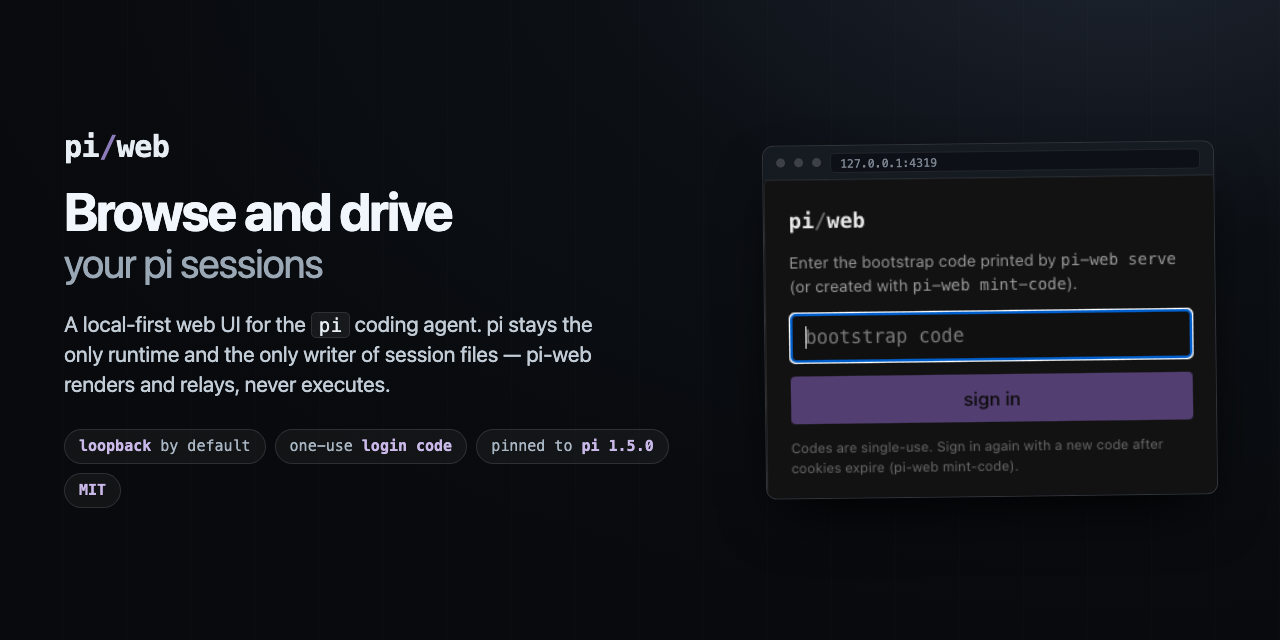
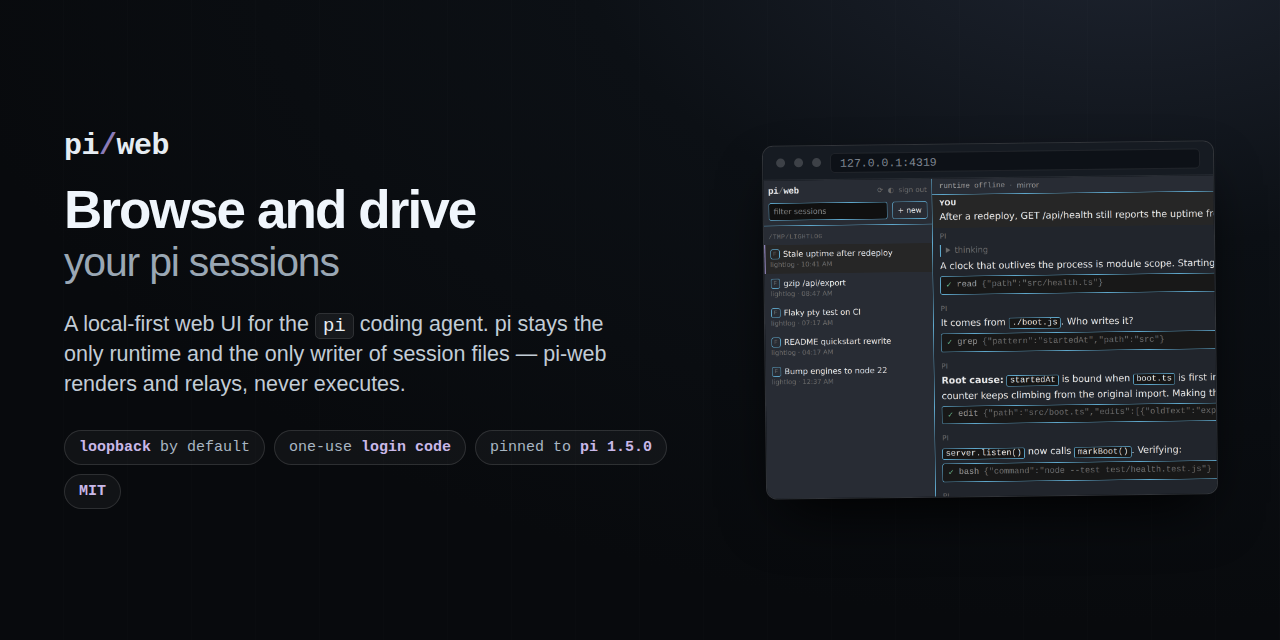
docs: drop the remaining login-page images from docs/assets
The README hero was swapped, but the login card was still shipped twice in
`docs/assets/`: `screenshot-login.png`, and the social preview, whose mock
browser window rendered the same bootstrap-code screen.

- delete `docs/assets/screenshot-login.png`
- re-render `docs/assets/social-preview.png` (1280x640) around
  `screenshot-main.png` instead of the login card, zoomed on the session list
  and the first tool calls so it stays legible at OG size
- `social-preview.html` now reads `screenshot-main.png` and no longer depends
  on an untracked `login-raw.png`, so it can actually be re-rendered
- audit doc and changelog corrected to match

GitHub's social preview image is a repo setting, so the new PNG has to be
re-uploaded there; nothing in the repo can do that.

diff --git a/docs/assets/social-preview.html b/docs/assets/social-preview.html
@@ -27,7 +27,7 @@ h1 span{display:block;font-weight:400;color:#9aa7b4;font-size:41px;letter-spacin
 .url{flex:1;height:20px;border-radius:5px;background:#0d1117;border:1px solid #ffffff14;
   font:400 11.5px/20px ui-monospace,Menlo,monospace;color:#7d8590;padding:0 9px}
 .shot{position:relative;overflow:hidden;width:450px;height:318px}
-.shot img{position:absolute;width:1608px;height:904px;left:-578px;top:-291px;display:block}
+.shot img{display:block;position:absolute;top:0;left:0;width:1000px;height:625px;object-fit:cover}
 .cap{margin-top:13px;text-align:right;font:400 13.5px/1.3 ui-monospace,Menlo,monospace;color:#6f7d8b}
 .foot{position:absolute;left:64px;bottom:26px;z-index:2;font:400 14px/1 ui-monospace,Menlo,monospace;color:#5f6c79}
 </style></head><body><div id="card">
@@ -47,7 +47,7 @@ h1 span{display:block;font-weight:400;color:#9aa7b4;font-size:41px;letter-spacin
     <div class="win">
       <div class="bar"><span class="dot"></span><span class="dot"></span><span class="dot"></span>
         <span class="url">127.0.0.1:4319</span></div>
-      <div class="shot"><img src="login-raw.png" alt="pi-web login screen"></div>
+      <div class="shot"><img src="screenshot-main.png" alt="pi-web session transcript: sidebar of sessions, then tool calls and the fix"></div>
     </div>
   </div>
-</div><div id="crop" style="position:absolute;top:700px;left:0"><div class="shot" style="width:900px;height:640px"><img src="login-raw.png" alt="" style="width:3170px;height:1780px;left:-1140px;top:-572px"></div></div></body></html>
+</div></body></html>

diff --git a/OPEN_SOURCE_LAUNCH_AUDIT.md b/OPEN_SOURCE_LAUNCH_AUDIT.md
@@ -28,7 +28,7 @@ Two structural notes first, because they shape everything else:
 
 | # | Item | Status | Evidence | Changes made | Remaining action |
 | --- | --- | --- | --- | --- | --- |
-| 1 | Demo GIF | **PARTIAL** | Real screenshot captured from a live local build: `docs/assets/screenshot-login.png` (900×640, 65 KB), embedded near the top of `README.md`. *(Later: `README.md` now leads with `docs/assets/screenshot-main.png`, a still of the main UI viewing a session; the login still is kept as an asset for frame 1 of the GIF.)* No GIF encoder exists on this host (no `ffmpeg`, `gifski`, `gifsicle`, ImageMagick). | Screenshot in README with a caption stating it is the real app; `docs/DEMO_CAPTURE.md` with verified boot/allow/mint commands, the five frames to record, `agent-browser` sequence, and the exact `ffmpeg` encode line. | Record the GIF on a machine with an encoder, against mock-provider or publishable data (see doc §1 privacy warning). Replace the pending block. |
+| 1 | Demo GIF | **PARTIAL** | Real screenshot captured from a live local build: `docs/assets/screenshot-login.png` (900×640, 65 KB), embedded near the top of `README.md`. *(Later: `README.md` now leads with `docs/assets/screenshot-main.png`, a still of the main UI viewing a session; the login-card image has since been deleted and the social preview re-rendered around the new still — recapture a login frame via `docs/DEMO_CAPTURE.md` step 3 if the GIF needs one.)* No GIF encoder exists on this host (no `ffmpeg`, `gifski`, `gifsicle`, ImageMagick). | Screenshot in README with a caption stating it is the real app; `docs/DEMO_CAPTURE.md` with verified boot/allow/mint commands, the five frames to record, `agent-browser` sequence, and the exact `ffmpeg` encode line. | Record the GIF on a machine with an encoder, against mock-provider or publishable data (see doc §1 privacy warning). Replace the pending block. |
 | 2 | One-line value proposition | **PASS** | `README.md` first paragraph; reused in `docs/GITHUB_REPO_SETTINGS.md` as the GitHub description. | Kept the existing accurate line (it already states what/who/why); tightened the build comment. Social preview uses a short-form version. | none |
 | 3 | One-command install | **PARTIAL** | Verified in a clean clone: `npm ci` → `npm run build` → `./packages/server/bin/pi-web.mjs serve` now works. **Before this pass it did not**: `npm run build` emitted only the client, so `serve` died with `ERR_MODULE_NOT_FOUND @piwebui/pi-adapter/dist/index.js`. | Added root `build:packages` (shared, pi-adapter, server) and wired it into `npm run build`; README quick start now uses `npm ci` and describes what build does. | A true one-liner (`npm i -g pi-web` or `npx`) requires publishing: all four manifests are `"private": true`. Decision + approval needed; steps in `MAINTAINERS.md`. |
 | 4 | Live demo | **NOT APPLICABLE** (by design) | pi-web binds loopback and reads *the user's own* pi sessions; a hosted demo would need a shared pi install and would expose other people's session data. No hosted demo was claimed anywhere. | `docs/DEMO_CAPTURE.md` documents a local walkthrough path; README links it. | Optional: a screencast rather than a hosted instance. Do not build a multi-tenant demo. |
@@ -52,7 +52,7 @@ Two structural notes first, because they shape everything else:
 `.github/workflows/e2e.yml`, `.github/dependabot.yml`, `.github/ISSUE_TEMPLATE/{bug_report,feature_request,config}.yml`,
 `.github/pull_request_template.md`, `.github/CODE_OF_CONDUCT.md`,
 `docs/SECURITY_REVIEW.md`, `docs/GITHUB_REPO_SETTINGS.md`, `docs/DEMO_CAPTURE.md`,
-`docs/GOOD_FIRST_ISSUES.md`, `docs/assets/social-preview.{html,png}`, `docs/assets/screenshot-login.png`.
+`docs/GOOD_FIRST_ISSUES.md`, `docs/assets/social-preview.{html,png}`, `docs/assets/screenshot-main.png`.
 
 **Changed (6):** `package.json` (root build now emits workspace `dist` — fixes the broken quick start),
 `README.md` (static badges, screenshot + pending-demo note, "Where things live" doc table, quick-start

diff --git a/CHANGELOG.md b/CHANGELOG.md
@@ -31,9 +31,9 @@ section with a dated entry.
 
 - The README now leads with the main UI instead of the login card: `docs/assets/screenshot-main.png`
   shows a session transcript (session list, thinking, tool calls with results, markdown, the follow-up
-  commit) captured from a real local build at 1600x1000 @2x against synthetic demo data. The login
-  still stays in `docs/assets/` as frame 1 for the planned GIF, and `docs/DEMO_CAPTURE.md` §0 records
-  how the still is reproduced.
+  commit) captured from a real local build at 1600x1000 @2x against synthetic demo data. No login-page
+  image is shipped any more: `docs/assets/screenshot-login.png` was deleted, and the social preview was
+  re-rendered around the new still. `docs/DEMO_CAPTURE.md` §0 records how both are reproduced.
 
 ### Fixed
 

diff --git a/docs/DEMO_CAPTURE.md b/docs/DEMO_CAPTURE.md
@@ -2,8 +2,9 @@
 
 Status: **not recorded yet.** These are the commands that were run and verified while preparing this
 document, so the capture is a mechanical follow-up rather than an open question. Nothing here is
-invented: the server boots, the login flow works, and the login card frame came from step 3. The
-README currently leads with a still of the main UI instead — §0 reproduces it.
+invented: the server boots, and the login flow works. The README currently leads with a still of the
+main UI instead — §0 reproduces it. No login-card image is checked in any more (step 3 regenerates one
+in seconds if frame 1 of the GIF needs it).
 
 ## 0. The main-UI still (currently in the README)
 
